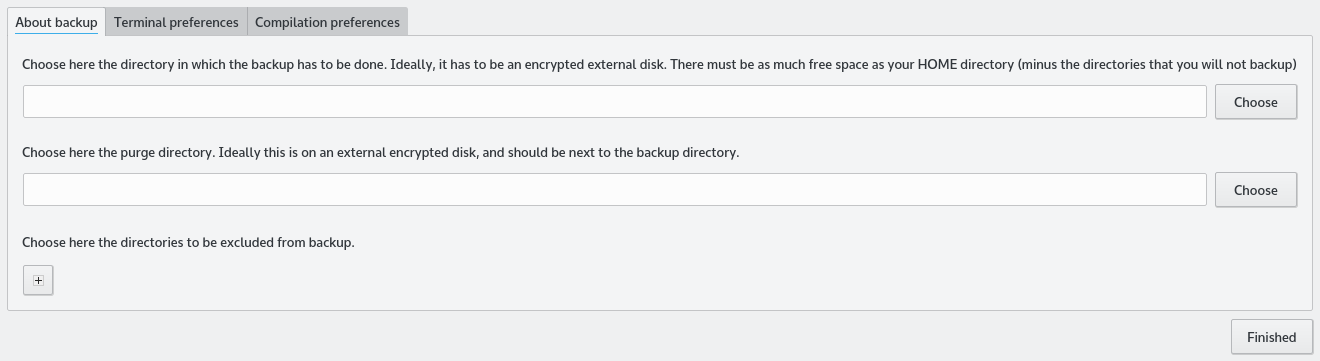
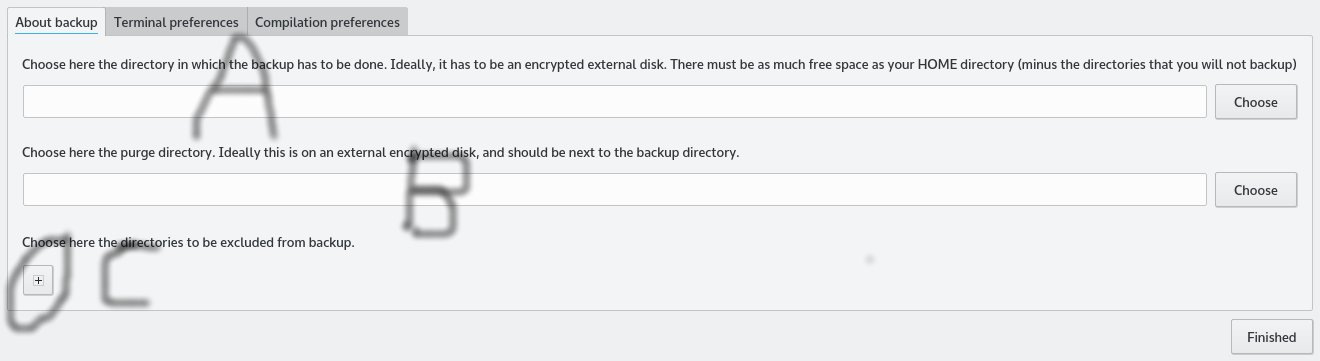
Initiate the work on the user manual.

Changed region(s): [[0.0, 0.6399, 0.1242, 0.9446], [0.2795, 0.3961, 0.3727, 0.6704], [0.1242, 0.0914, 0.2174, 0.3961]]

diff --git a/manual.tex b/manual.tex
@@ -6,6 +6,8 @@
 \usepackage{amsthm}
 \usepackage{amssymb}
 \usepackage{bbm}
+\usepackage{graphicx}
+\usepackage[normalem]{ulem}
 
 \usepackage{hyperref}
 \hypersetup{colorlinks=true,linkcolor=blue}
@@ -16,6 +18,7 @@
 \usepackage[utf8]{inputenc}
 \usepackage[T1]{fontenc}
 
+\newcommand{\info}[1]{\texttt{#1}}
 
 \begin{document}
 
@@ -23,4 +26,222 @@
 \author{Laurent Claessens}
 \maketitle
 
+Lora is a backup program and a small Git remainder utility\footnote{Did you committed everything you modified today ?}.
+
+\begin{center}
+    {\bf Warning}
+\end{center}
+This is a free software\footnote{In the sense of the GPL : no warranty, etc.} manipulating your invaluable data. If you use it, I consider you as a consenting adult.
+
+\tableofcontents
+
+%+++++++++++++++++++++++++++++++++++++++++++++++++++++++++++++++++++++++++++++++++++++++++++++++++++++++++++++++++++++++++++ 
+\section{Installation and compilation}
+%+++++++++++++++++++++++++++++++++++++++++++++++++++++++++++++++++++++++++++++++++++++++++++++++++++++++++++++++++++++++++++
+
+The first step is to download the whole on \href{ https://github.com/LaurentClaessens/lora  }{ github } with
+\begin{center}
+    \info{git clone https://github.com/LaurentClaessens/lora}
+\end{center}
+
+
+%--------------------------------------------------------------------------------------------------------------------------- 
+\subsection{The manual way}
+%---------------------------------------------------------------------------------------------------------------------------
+
+\begin{enumerate}
+    \item
+        Create your \info{lora.cfg} looking at \info{example.cfg} for example and explanations.
+    \item
+        Modify the path of \info{BOOST\_THREAD\_LIB} in \info{makefile}.
+    \item
+        Test with
+        \begin{center}
+            \info{./tests.sh}
+        \end{center}
+        This should compile everything and launch a small testing program.
+    \item
+        Launch Lora with
+        \begin{center}
+            \info{./lora}
+        \end{center}
+\end{enumerate}
+
+%--------------------------------------------------------------------------------------------------------------------------- 
+\subsection{The graphical way}
+%---------------------------------------------------------------------------------------------------------------------------
+
+%///////////////////////////////////////////////////////////////////////////////////////////////////////////////////////////
+\subsubsection{Compile the installation program}
+%///////////////////////////////////////////////////////////////////////////////////////////////////////////////////////////
+
+\begin{enumerate}
+    \item
+        Compile the installation program :
+        \begin{center}
+            \info{make installation}
+        \end{center}
+    \item
+        Launch the installation program :
+        \begin{center}
+            \info{./installation}
+        \end{center}
+\end{enumerate}
+
+%///////////////////////////////////////////////////////////////////////////////////////////////////////////////////////////
+\subsubsection{The backup tab}
+%///////////////////////////////////////////////////////////////////////////////////////////////////////////////////////////
+
+Here it is :
+
+\begin{center}
+    \includegraphics[width=\linewidth]{backup_tab.png}
+\end{center}
+
+\begin{enumerate}
+    \item
+        The backup directory (A) is the directory in which you want your \info{\$HOME} to be copied. Typically it will be something like
+        \begin{center}
+            \info{/mnt/backup\_partition/backup.lora}
+        \end{center}
+        where \info{/mnt/backup\_partition} is the mount point of an encrypted partition on an external drive.
+    \item
+        The purge directory (B) is the directory in which modified and removed files will be copied (from the backup directory) before to the respectively copied from the home to the backup and removed from the backup directory. The main user case is «I accidentally deleted a file, I perform the backup (thus the file is deleted from the backup) and \emph{then} I note that the file was removed.»  In this case, the removed file (in the version that was available in the backup) can be retrieved in the purge directory.
+
+        Typically it will be something like
+        \begin{center}
+            \info{/mnt/backup\_partition/purge.lora}
+        \end{center}
+
+        Note that there are no automatic process removing the files from the purge directory. The size is then always increasing and you should remove very old subdirectory by hand.
+
+        If you are using a program like Thunderbird, I let you know that it will \href{ http://xkcd.com/725/ }{ literally } produce \href{ https://fr.wikipedia.org/wiki/Gibioctet }{ gibis } of data in the purge directory each day.
+    \item
+        The excluded directories (C) are what they seem to be : they will be excluded from the backup. You can as example not backup the directory in which you save the \info{iso} files of your preferred Linux distribution. Press the \includegraphics{plus.png} button to add an excluded directory.
+\end{enumerate}
+
+%///////////////////////////////////////////////////////////////////////////////////////////////////////////////////////////
+\subsubsection{The terminal tab}
+%///////////////////////////////////////////////////////////////////////////////////////////////////////////////////////////
+
+You can skip this if you don't use git. 
+
+The ``Terminal tab'' allows you to determine what kind of terminal and editor you prefer\footnote{Serious people use \sout{gedit} vim or \sout{emacs}notepad. Under \sout{konsole}\,\sout{command.com}terminology.}.
+Here is the tab :
+
+\begin{center}
+    \includegraphics[width=\linewidth]{terminal_tab.png}
+\end{center}
+\begin{enumerate}
+    \item
+        The line (A) ask you the command line that launch your favorite terminal.
+\end{enumerate}
+<++>
+
+
 \end{document}
+
+    \includegraphics[width=\linewidth]{compilation_tab.png}
+
+
+
+Compile the whole
+    make all
+
+NOTES
+ 
+    You can bypass the installation if Boost is correctly located (see where the makefile assumes it is).  
+Doing directly
+        make all
+works at my place (Ubuntu 15.10 Wily) 
+
+    You can directly modify the 'lora.cfg' and 'makefile' file instead of using the installation program. 
+
+
+DEFAULT USE
+
+./lora 
+
+will backup your $HOME directory using the backup and purge paths found in 'lora.cfg'
+
+BACKUP A PART
+
+./lora ~/foo
+
+will backup the directory ~/foo in   <backup>/foo   where <backup> is the directory found in 'lora.cfg'. This contains the backup of $HOME.
+
+
+USE AN OTHER CONFIG FILE
+
+./lora --configuration=myconfig.cfg
+
+will read the configuration file 'myconfig.cfg' instead of 'lora.cfg'
+
+
+WHAT IS DOES -- BACKUP
+
+The main feature is : the backup copy is only a copy. You can browse it with your favorite file browser and get a file back with a simple copy. You do not require a special software for getting back your data.
+
+As an example, let us show how work the backup of $HOME=/home/daniel
+
+We choose :
+    backup directory : /mnt/baka/backup
+    purge directory  : /mnt/baka/purge
+
+Typically, /mnt/baka is the mount point of an encrypted external disk.
+
+
+This software loops over the files and repertories of /home/daniel and creates a copy into
+/mnt/baka/backup
+
+At the end of the process, the directories /home/daniel and /mnt/baka/backup are the same (except for the excluded directories).
+
+When making the backup of /home/daniel/bar/foo.txt,
+* check if /mnt/baka/backup/bar/foo.txt
+* if not, create it with a simple copy (but the last write time attribute is conserved)
+* if /mnt/baka/backup/bar/foo.txt exists and is different
+    - move to /mnt/backup/bakapurge.lora/<today date>/<hour>/modified/bar/foo.txt   (keeping the time attribute)
+    - make the copy.
+
+Thus the backup is incremental in the sense that the old version of a modified files is still available in a directory whose name is the date and the hour of the backup.
+
+
+
+ATTENTION : There is no mechanism to suppress old file. Thus the size of directory /mnt/baka/purge is always increasing. This is by purpose : I prefer not have an automated way to suppress data.
+    Consequence : some segmentation faults are triggered by "disk full". This is the user's responsibility to know what to suppress.
+
+Trying to exclude a non-existing directory throws an error (when reading the configuration file). The reason roots in the following user case. Let suppose I don't want to
+backup /home/daniel/videos/dvd (containing .VOB files) because it is very large and not really important. I add the line
+exclude=/home/daniel/videos/dvd 
+in the configuration file.
+Now I change the directory name to /home/daniel/vidéos/dvd  (add an accent on "vidéo"). Then the backup process will copy the whole directory /home/daniel/vidéo and purge <purge>/videos. This is yet not really optimal, but copying the subdirectory /home/daniel/vidéos/dvd is REALLY what we don't want to do. 
+
+When something strange happens, better to crash than silently manage the situation.
+
+
+WHAT IT DOES -- PURGE
+
+Lora loops over the directory /mnt/baka/backup and checks if these files correspond to files in /home/daniel.
+When looking at /mnt/backa/backup/blah/stuff.tex
+
+* check if /home/daniel/blah/stuff.tex exists
+ - if yes, do nothing
+ - if not, assume that this file was removed in the home and then move
+/mnt/baka/backup/blah/stuff.tex ---> /mnt/baka/purge/<today date>/<hour>/removed/blah/stuff.tex
+
+
+By the way, Lora has very bad performance against renaming an intere directory : in the first pass, it copy everything and in the second pass, it move the whole to the purge directory.
+
+WHAT IT DOES -- GIT
+
+Since Lora loops over the whole $HOME, it also take time to check for each directory if it is a git repository (has non trivial .git subdirectory) and if this repository
+is clean.
+
+A list of directories that are not clean git repository (untracked or modified files) is displayed. Clicking on one of them opens a dialog window that helps you to 
+  - add files in .gitignore
+  - add files
+  - make a 'git commit -a'
+  - see git diff
+  - ...
+
+
